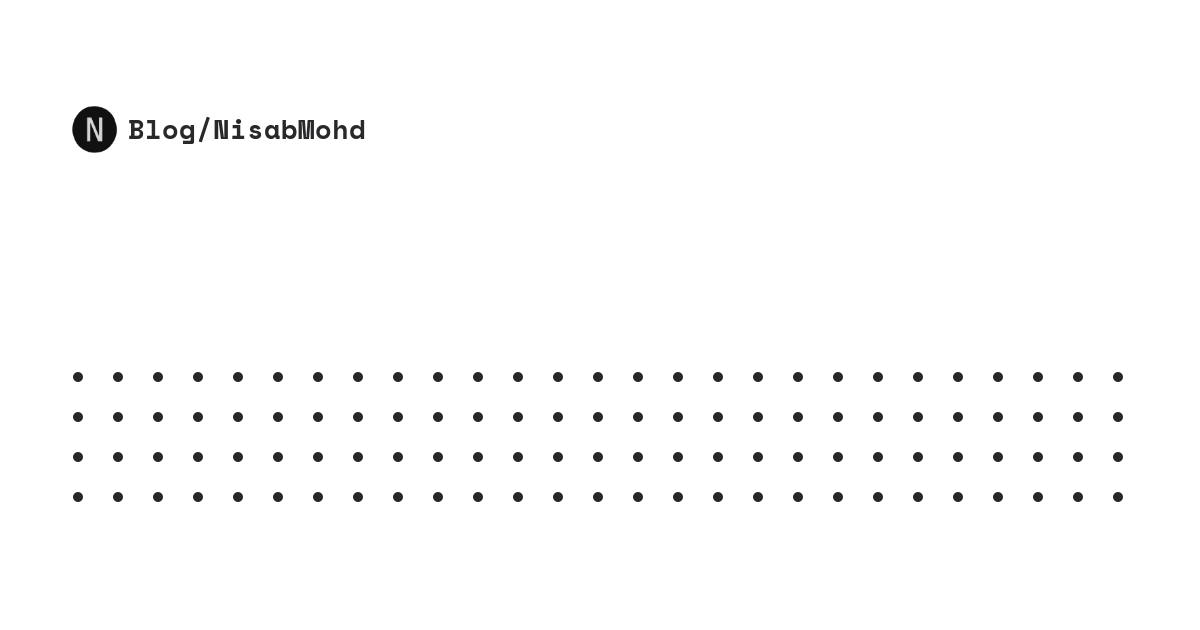
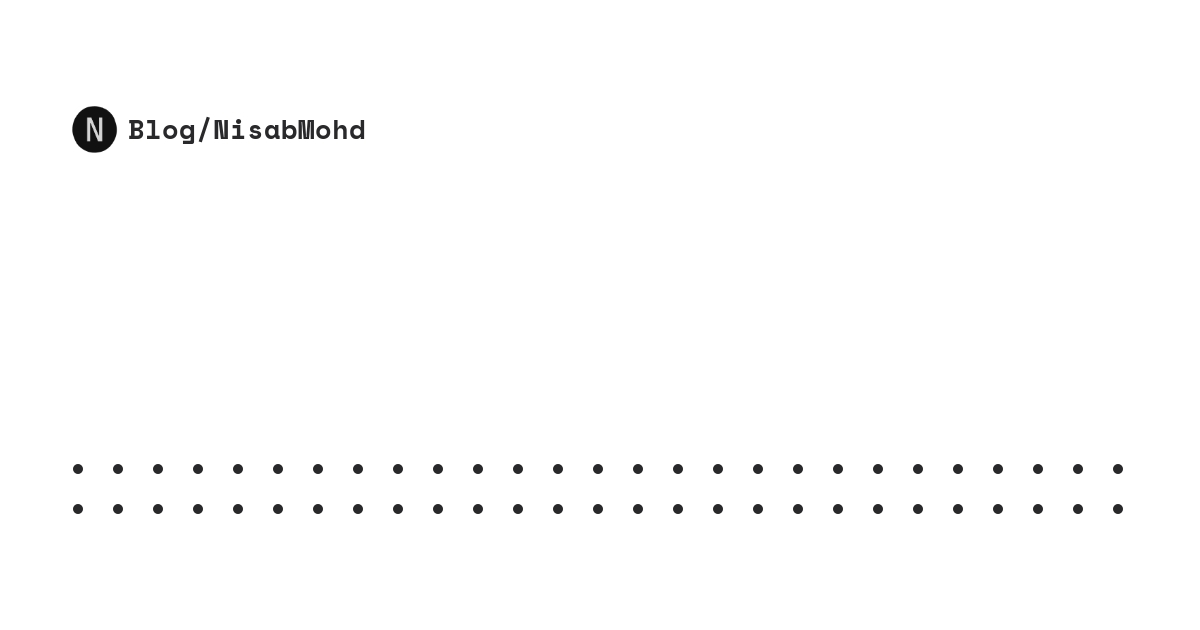
changed og bg foe good responsiveness

diff --git a/app/og/route.tsx b/app/og/route.tsx
@@ -6,8 +6,6 @@ export const runtime = "edge";
 export async function GET(req: NextRequest) {
   const { searchParams } = new URL(req.url);
   let postTitle = searchParams.get("title") ?? "";
-  if (postTitle.length > 35) postTitle = postTitle.slice(0, 48) + " ...";
-  console.log(postTitle);
 
   const font = fetch(
     new URL("../../public/fonts/SpaceMono-Bold.ttf", import.meta.url)
@@ -32,10 +30,10 @@ export async function GET(req: NextRequest) {
         <div
           style={{
             marginLeft: 75,
-            marginBottom: 125,
+            marginBottom: 120,
             marginRight: 30,
             display: "flex",
-            fontSize: 90,
+            fontSize: 70,
             letterSpacing: "-0.05em",
             fontStyle: "normal",
             color: "black",
